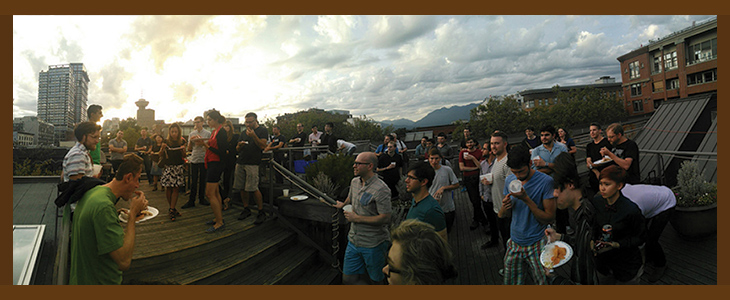
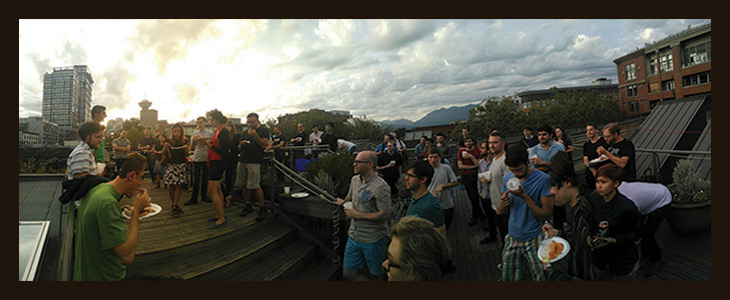
changed borders on pics
for consistency

diff --git a/_posts/2014-09-30-the-evolution-of-brewhouse-software.md b/_posts/2014-09-30-the-evolution-of-brewhouse-software.md
@@ -51,7 +51,7 @@ We think the elements that go into creating coffee overlap with how we create ou
 The time was right. We added two more to the team of four and realized that it wouldn't cost much more to have our own dedicated space.  It was always our intention to branch out, as our previous digs, a co-working space ([Chloi HQ](http://chloi.io/)), lacked the ability to brand and limited us in what we could do. After all, it is a shared space! We're creative and we needed to be able to feel like the space we worked in was our own. So Brewhouse Software HQ was born.
 
 *And then there were six.*
-<img class="img-responsive" alt="Gabe face and Lana face" src="/images/posts/2014/Sept/gabe-me.jpg">
+<img class="img-responsive" alt="Gabe face and Lana face" src="/images/posts/2014/Sept/gabe-me.png">
 
 It was a big step to add two more to the team. [Gabe](https://twitter.com/gabescholz) was a welcome addition. He is an amazing developer, specializing in AngularJS, and we now have the capacity to take on more customers, more clients and more work to do with our products. 
 
